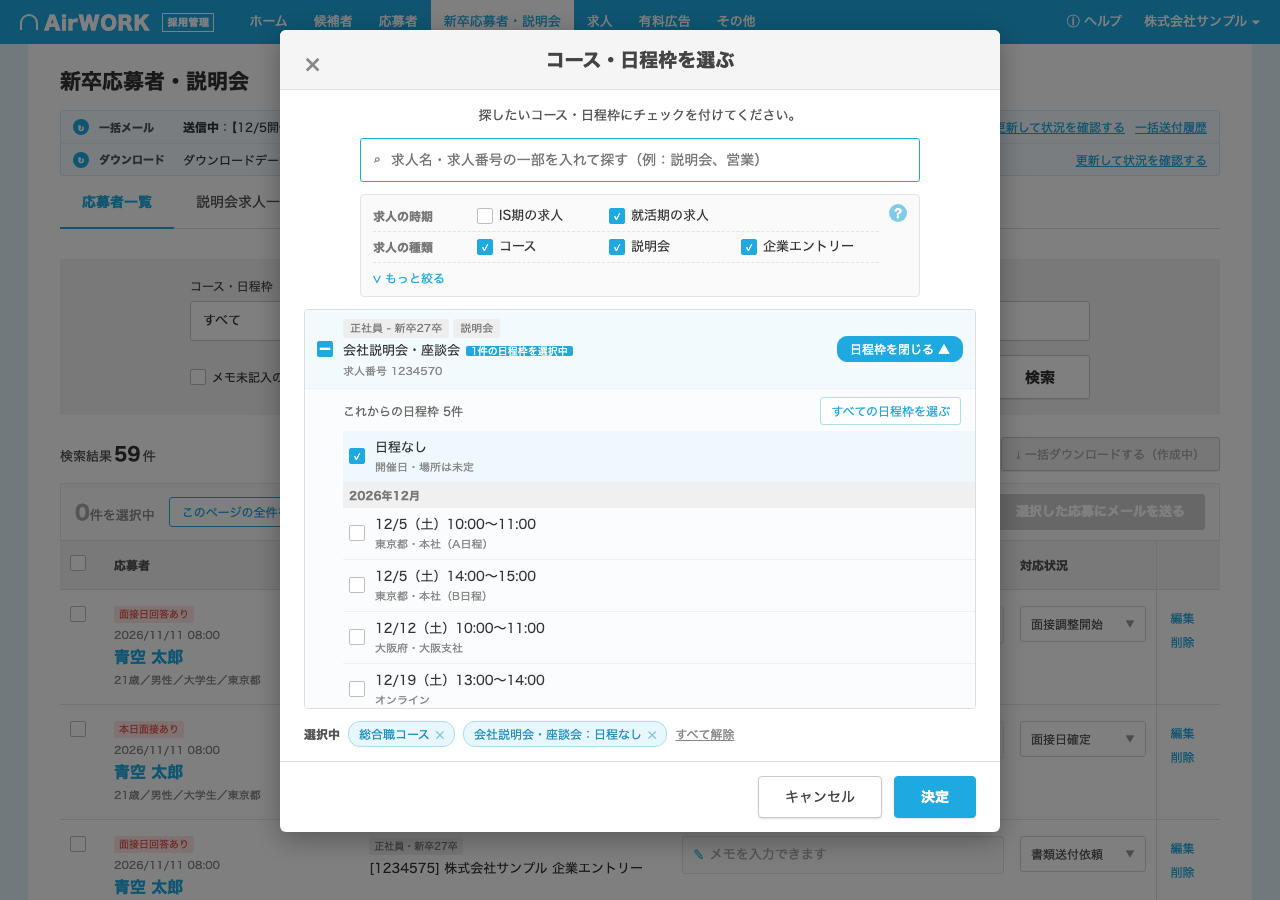
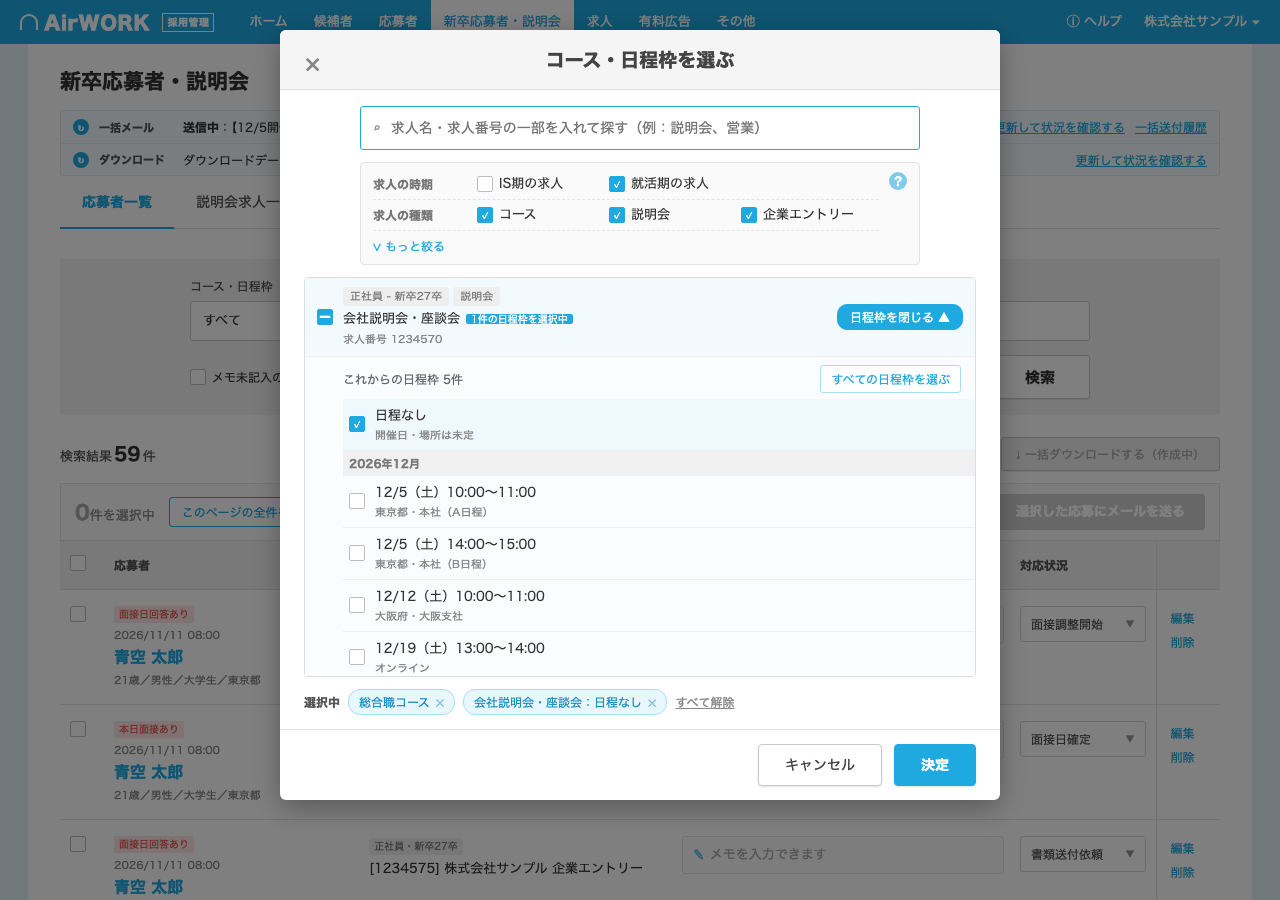
モーダル上部の説明文を削除、未選択時の表示を「未選択」に

diff --git a/app.js b/app.js
@@ -502,7 +502,6 @@
   function renderModal() {
     const fs = M.fs;
     const isIS = !fs.season.has('main');
-    $('mdDesc').textContent = '探したいコース・日程枠にチェックを付けてください。';
     const d = defaultFs();
     const moreSet = fs.year.size !== d.year.size || fs.post.size !== 1 || !fs.post.has('on') || fs.past.size > 0;
     $('moreLk').textContent = M.more ? '∧ もっと絞るを閉じる' : `∨ もっと絞る${moreSet ? '（指定中）' : ''}`;
@@ -526,7 +525,7 @@
     }).join('') : '<div class="rempty">条件に合う求人はありません。</div>';
     $('panes').classList.add('full');
     const chosen = [...M.jobs].map((j) => [`j:${j}`, jobLabel(j)]).concat([...M.slots].map((s) => { const [jid, sid] = s.split(':'); return [`s:${s}`, `${jobById(jid).name}：${slotLabel(jid, sid)}`]; }));
-    $('chosen').innerHTML = chosen.length ? `<span class="lb2">選択中</span>${chosen.map(([k, t]) => `<span class="tag">${esc(t)}<span class="x" data-c="${esc(k)}">✕</span></span>`).join('')}<span class="clr" data-c="all">すべて解除</span>` : '<span class="lb2" style="color:#AAA;font-weight:400">まだ選んでいません（選ばなければ、すべての求人が対象です）</span>';
+    $('chosen').innerHTML = chosen.length ? `<span class="lb2">選択中</span>${chosen.map(([k, t]) => `<span class="tag">${esc(t)}<span class="x" data-c="${esc(k)}">✕</span></span>`).join('')}<span class="clr" data-c="all">すべて解除</span>` : '<span class="lb2" style="color:#AAA;font-weight:400">未選択（選ばなければ、すべての求人が対象です）</span>';
   }
   function slotsHtml(j) {
     const slots = SLOTS[j.id];

diff --git a/index.html b/index.html
@@ -69,7 +69,6 @@
     <div class="mh"><span class="x" id="mdClose">×</span><h2>コース・日程枠を選ぶ</h2></div>
     <div class="mb">
       <div class="mtop">
-        <div class="desc" id="mdDesc"></div>
         <div class="tools">
           <label class="srch big"><span class="mg">⌕</span><input id="mdQ" placeholder="求人名・求人番号の一部を入れて探す（例：説明会、営業）"></label>
         </div>
